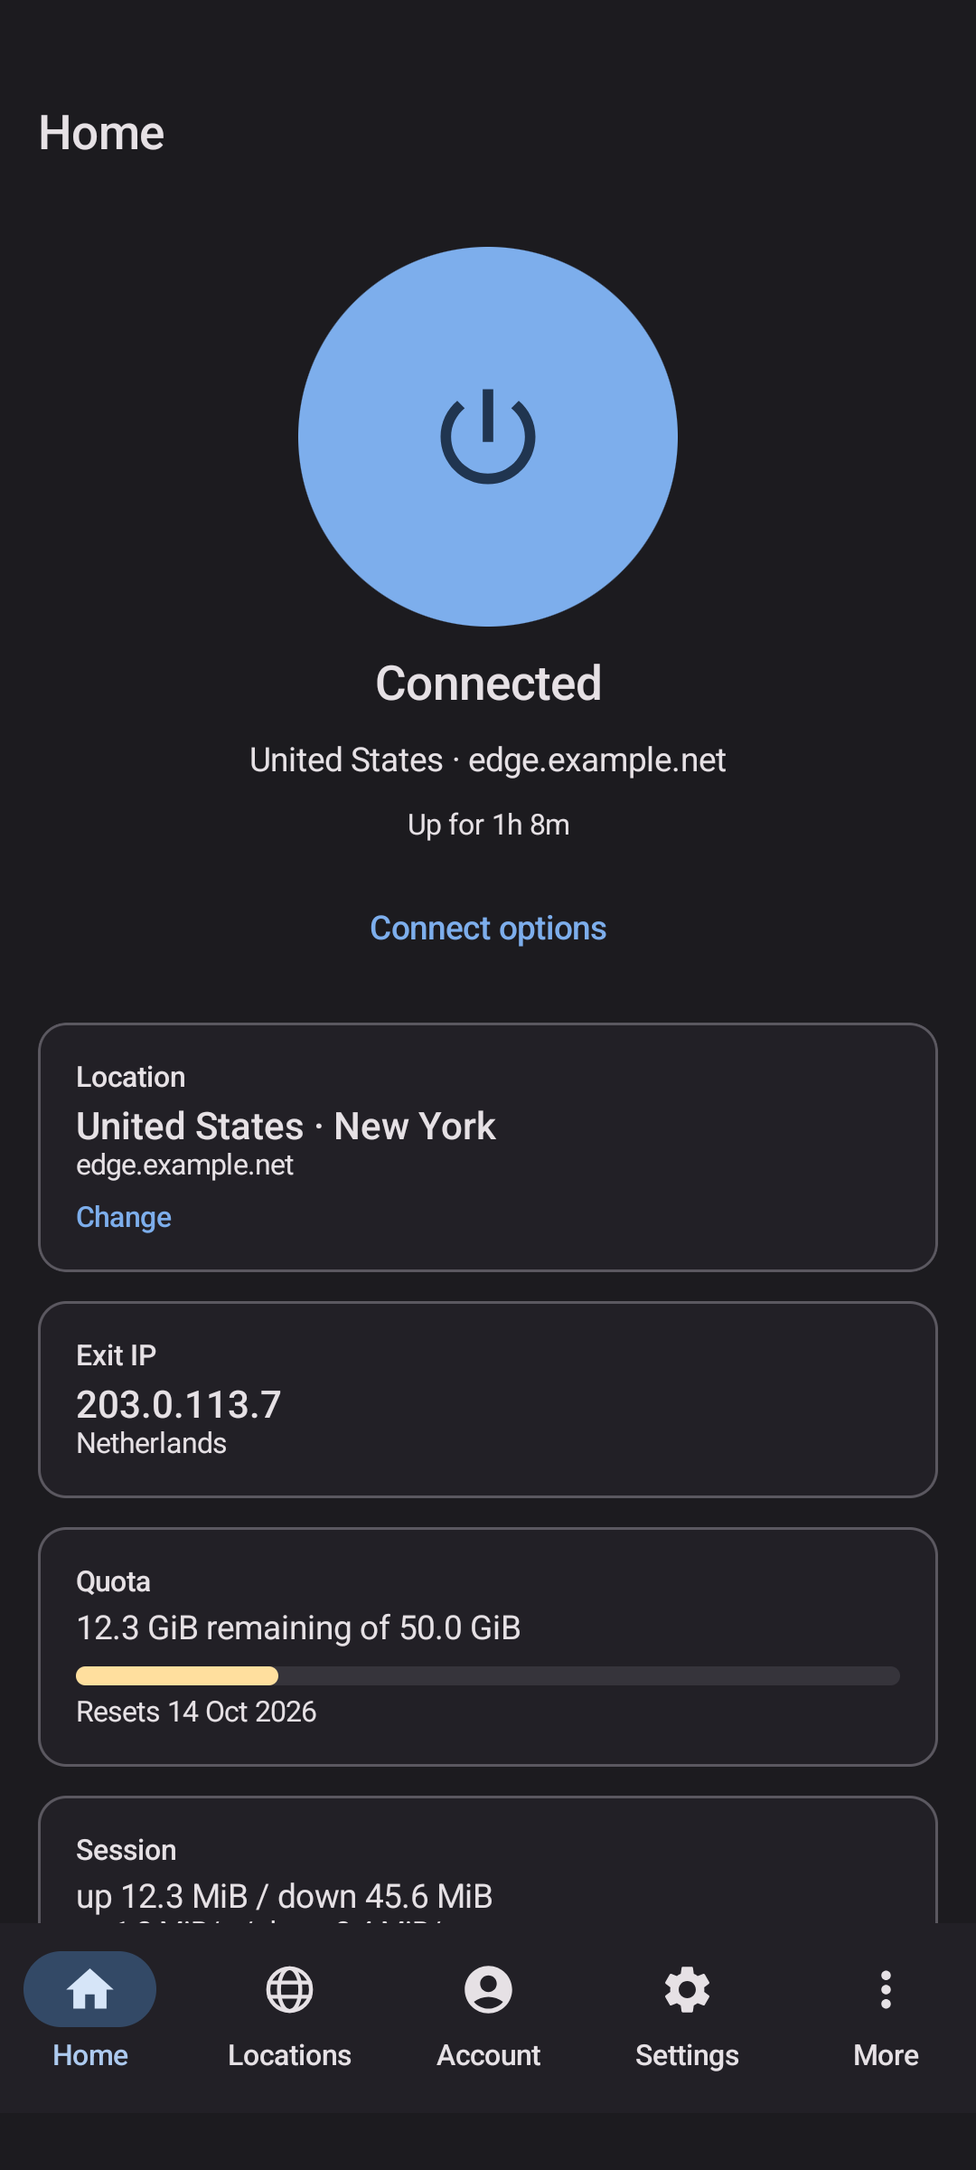
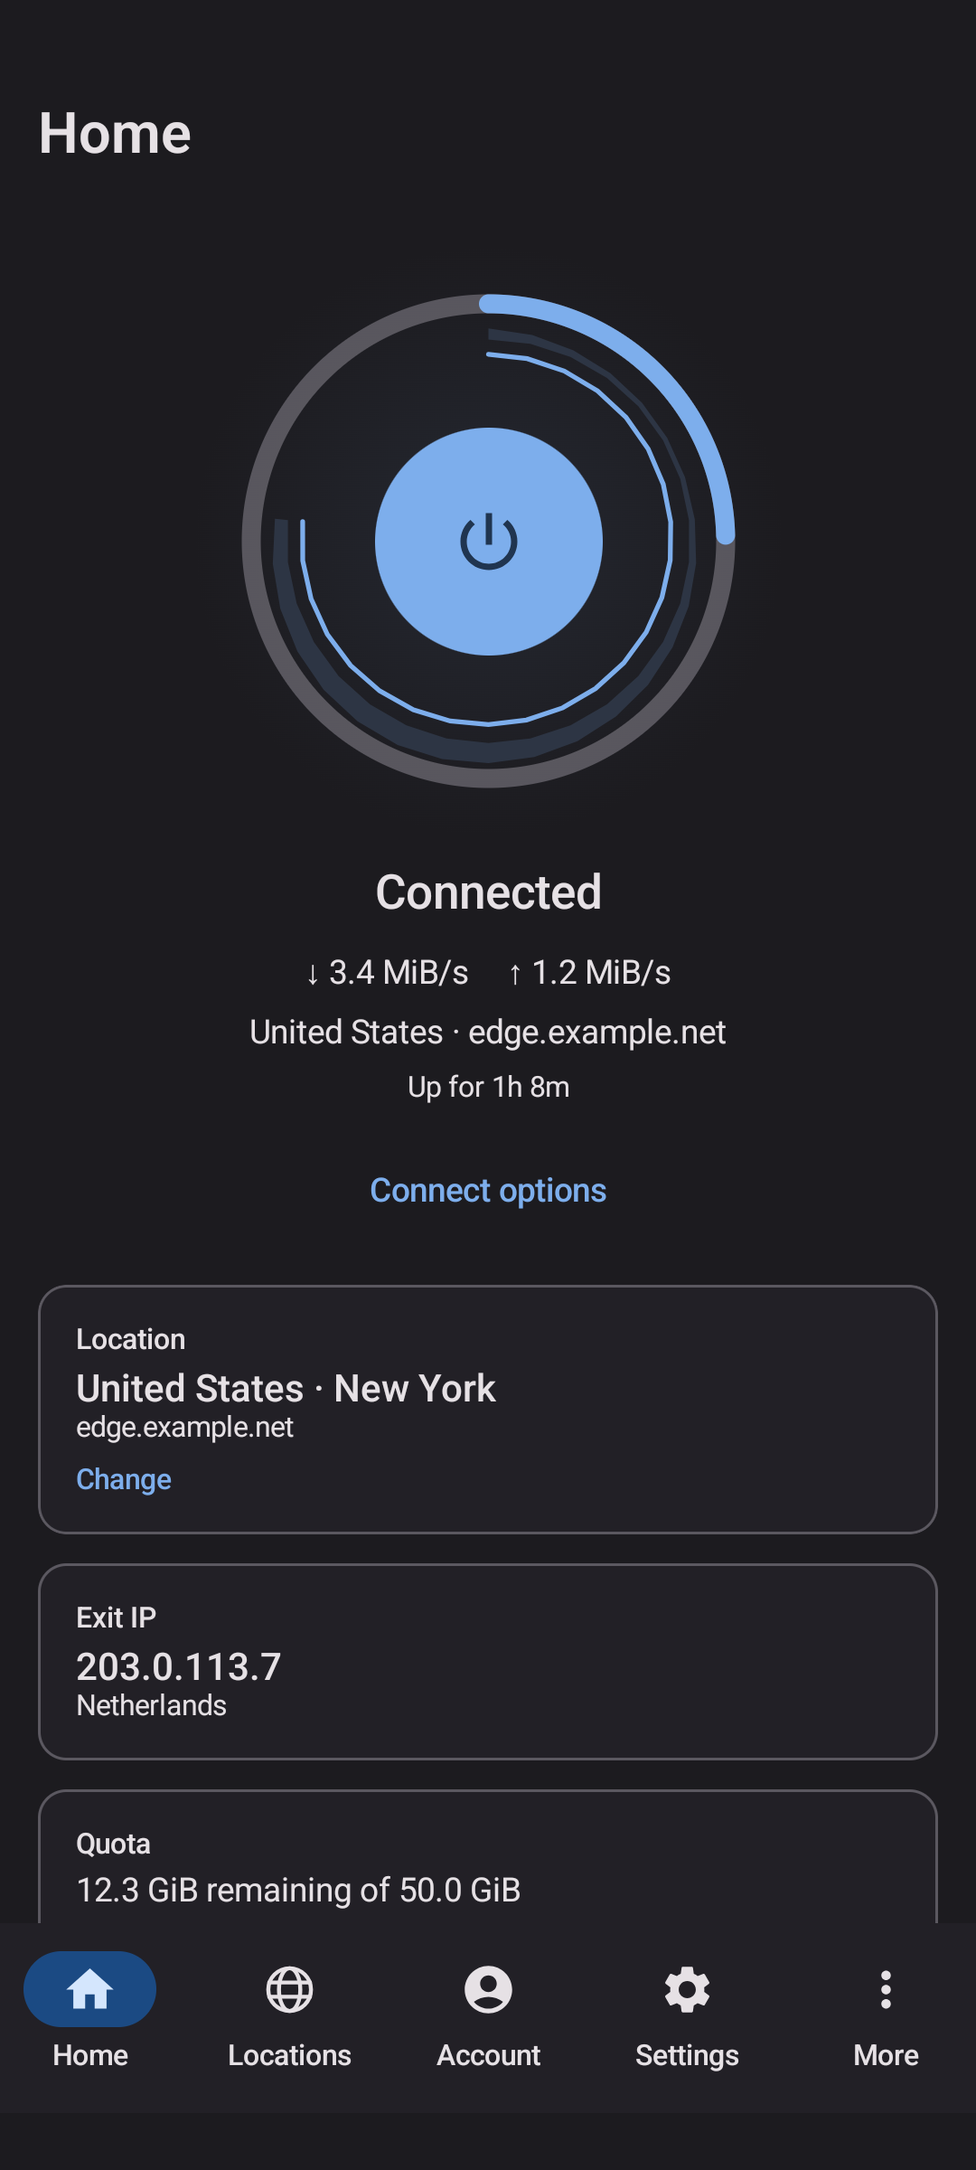
docs: document the v0.11.0 design language
Record the gauge and live rates, the Diagnostics charts, the
switch-location dialog, the recovery actions, the Account clarity work,
the launch wordmark and the phone-wide restyle in the user guide, the
testing guide, the design language and the changelog. Regenerate the
three README captures from the Dark screenshot test run.

Design self-check (Light, Dark, OLED and a Teal run):
- Bans 1-12: no decorative gradient (the gauge glow is the one allowed
  subtle glow), no glass, no emoji in chrome, no stock art, no marketing
  hero, no purple gradient, no drop shadows, one accent, semantic roles
  only, logical start/end layout, no decorative numbering, one type
  family. Flags are real assets; monospace is functional machine data.
- Accessibility: contrast checked in all themes, 48 dp targets, state
  carried by word and icon as well as colour, gauge and charts labelled
  and summarised in text, reduced motion honoured, focus order
  unchanged.

The Settings capture still shows 0.10.1; the version bump is the release
commit.

diff --git a/docs/android.md b/docs/android.md
@@ -157,16 +157,30 @@ system's light/dark preference, and OLED is opt-in.
 
 ## Dashboard
 
-The power control is the primary action: tap to connect or disconnect. The
-state word under it is the service's own state:
+The hero is one 248 dp gauge and the power control is its centre: tap it to
+connect or disconnect. The state word under it is the service's own state:
 
 - *Off*, *Connected*, *Proxy only*, *Connecting*, *Reconnecting*, *Waiting for
   network*, *Sign in required*, *Connection error*, *Service unavailable*,
   *VPN permission needed*, and *Starting…* while the app waits for the bound
   service. A proxy-only session also carries a **No VPN tunnel** badge.
 
+While a session is up the outer 8 dp arc shows the remaining quota (hidden
+when the quota is unknown or the phase is not active), and two bands inside
+the ring trace the last 60 seconds of throughput — download as a filled band,
+upload as a stroked line. The line under the state word repeats the current
+rates as `↓ 3.4 MiB/s ↑ 1.2 MiB/s` in tabular figures. A subtle primary glow
+breathes behind the gauge only while the app is in the foreground. Connecting
+and reconnecting rotate a state sweep around the ring; the gauge settles it
+into the quota position when the session connects. Under system **Remove
+animations** the sweep is static, the glow steady and every change snaps; the
+haptics and the numbers stay. The gauge is one TalkBack control labelled with
+the state, and every fact it draws is also text, so nothing depends on colour
+or the drawing alone.
+
 While connected the hero shows the real location and server and the session
-uptime. Four cards appear only when their data exists:
+uptime. Four cards appear only when their data exists (the live rates stay on
+the hero, not in Session):
 
 - **Location** — the country flag, country and city when the engine's server
   is known, with the `host:port` beneath it;
@@ -182,9 +196,17 @@ VPN*: the engine's desktop `autoconnect` setting is not used on Android.
 A connection command is one-way: the UI follows the service and never invents
 a connection. The app allows one session at a time, so while a session is
 active the options sheet says **Disconnect first to change location** and
-Connect is disabled. A failed connect is reported with the engine's own words
-and a Retry or Dismiss action; a transient status-refresh failure never
-replaces a live tunnel with an error.
+Connect is disabled; the Locations screen's switch dialog is the one place
+that performs that disconnect for you. A failed connect is reported with the
+engine's own words. A phase that needs a decision shows a **Next step** card
+under the hero with
+at most one filled primary action and one text action: **Retry** and
+**Diagnostics** for a connection error or an unavailable service, **Sign in**
+and **Diagnostics** when signed out, **Allow VPN** and **Open VPN settings**
+when consent is missing, and **Diagnostics** while waiting for a network. When
+there is a notice, the same card carries the engine's text and the **Dismiss**
+action. A transient status-refresh failure never replaces a live tunnel with
+an error.
 
 ### Connect options
 
@@ -257,9 +279,18 @@ scope. The current-selection summary keeps the flag and shows
 longer in the loaded list. There is no connected-location hint; the summary
 is the only current-selection display.
 
-Selecting a row saves it for the **next** connection — the current session
-keeps its server and exit IP — so the screen says to disconnect on Home and
-connect again.
+Selecting a row while no session is active saves it for the **next**
+connection. Tapping a row while a session is active (including proxy-only,
+connecting, reconnecting and waiting for a network) opens **Switch location?**
+with the target and the sentence that the current session ends. Nothing is
+persisted and nothing disconnects until **Switch**; **Cancel** leaves the
+session untouched. Confirming runs disconnect → wait for the engine to leave
+the connected family (bounded at 15 s) → select the row → connect, while the
+dialog shows **Ending the current session…** and **Connecting to …**. A
+failure keeps the target and offers **Retry** and **Close**; if the session
+does not stop in time the dialog says so and never connects. With Android
+lockdown on, the dialog warns that the phone has no tunnel until the new
+session is up.
 
 ## Home-screen widgets
 
@@ -560,10 +591,13 @@ proxies start and stop with the session.
 ## Account
 
 **Account** shows up to five accounts and the live Guardian entitlement for
-the active one. Each row carries the label/email, method, active marker,
-quota percent and a re-authentication warning. Run actions from the row
-overflow menu: **Use**, **Re-authenticate** (browser), **Rename** and
-**Remove**. **Add** offers browser sign-in (the default) or the password
+the active one. The active row carries an **Active** text chip and a primary
+outline; its quota reads **N% left** or **Quota unknown** in tabular figures,
+and a sign-in that needs re-authorization is a clickable **Re-authorize**
+warning chip rather than an easy-to-miss note. Every row shows the label/email,
+method and quota. Run actions from the row overflow menu: **Use**,
+**Re-authenticate** (browser), **Rename** and **Remove**. **Add** offers
+browser sign-in (the default) or the password
 pane. When the browser opens, the waiting card offers **Open again**, an
 expandable **Paste redirect URL instead** section with a **Redirect URL**
 field and **Continue**, **Use password**, and **Cancel**; completing the flow
@@ -582,17 +616,20 @@ sign-in removed. Add your Firefox account again.”** Password accounts and
 settings are untouched.
 
 The **Account rotation** card controls the same `account_rotation` and
-`rotation_threshold` settings mirrored in Settings → Connection. Rotation is
-off by default, runs before the next connect and never mid-session; the
-threshold is 1–50% (default 10) and is disabled while rotation is off.
+`rotation_threshold` settings mirrored in Settings → Connection. It names the
+active account and states what the threshold will do before the next connect.
+Rotation is off by default, runs before the next connect and never
+mid-session; the threshold is 1–50% (default 10) and is disabled while
+rotation is off.
 Threshold edits are debounced and saved through `accounts_set_rotation`.
 
 The entitlement card shows email, UID, subscription, quota remaining and
 limit, bandwidth (limited or unlimited) and token expiry. **Refresh** re-reads
 it with a 35-second timeout; on failure the last known fields stay visible
-with a notice. **Sign out** asks for confirmation, clears every account and
-the token files, asks Firefox Accounts to revoke the stored refresh tokens
-(best effort, with a short timeout), disconnects the tunnel and leaves you on
+with a notice. **Sign out all** is a tonal action that states the consequences
+first: it asks for confirmation, clears every account and the token files,
+asks Firefox Accounts to revoke the stored refresh tokens (best effort, with a
+short timeout), disconnects the tunnel and leaves you on
 Account in the signed-out state, where the browser/password sign-in pane lets
 you sign back in. An offline or failed revocation never blocks the local
 sign-out, and the app also clears the in-app WebView's Firefox Accounts
@@ -603,9 +640,10 @@ at any time. Removing one account leaves the others signed in.
 
 **More → Logs** shows the engine's log: a snapshot when the screen opens plus
 live lines while it is visible, capped at the newest **2000 entries**. Filter
-by **All / Debug / Info / Warn / Error**, search with the field, toggle
-**Follow**, **Clear** the engine ring, and **Share** the current buffer. Each
-line can be copied.
+with the tonal **All / Debug / Info / Warn / Error** controls, search with the
+field, toggle **Follow**, **Clear** the engine ring, and **Share** the current
+buffer. Rows use a 12 sp monospace face and tabular timestamps; each line can
+be copied.
 
 **Share** writes `kumiho-logs-<timestamp>.log` to the app's
 `cacheDir/exports/` and opens the Android share sheet with a `FileProvider`
@@ -629,6 +667,11 @@ once per visit (no polling), caching the result until you press **Re-run**:
 - status chips — **OK / Warn / Fail / Skip** — with detail and a **Fix:** line
   from the doctor where one exists, plus **Copy all** for the plain-text
   report;
+- two live charts over the same in-memory data as the dashboard: throughput
+  (download filled, upload stroked, grid baseline) and the engine's cached
+  latency as horizontal bars, longest first. The latency chart never starts a
+  ping, and a cache that cannot be read is replaced by an honest line rather
+  than an empty axis;
 - shortcuts to Android's VPN, notification and battery settings;
 - **Reset local state…**, which clears the cached server list, the log ring
   and the failure counters. It **never** signs you out and never touches your
@@ -637,6 +680,25 @@ once per visit (no polling), caching the result until you press **Re-run**:
 Diagnostics deliberately filters desktop-only doctor checks the phone cannot
 act on. It does not change Private DNS, the VPN flags or any system setting;
 the shortcuts are the only writes, and they open the system page for you.
+
+## Design
+
+The phone app is the reference implementation of the Kumiho Design Language;
+[design.md](design.md) records the palette roles (including the four data
+roles), the gauge anatomy, the chart encoding, the motion values, the
+wordmark rules, the component patterns and the accessibility floor. Light,
+Dark and OLED are first-class; every screen is reviewed in all three, and
+meaning is never carried by colour alone. Charts and the gauge glow sit on the
+page background because the data roles are pre-composited for it; they are
+never reused on a raised card.
+
+The only brand presence inside the app is the **Kumiho** wordmark on the
+launch screen. It is a vector outline tinted from `on-surface`, shown through
+the Android 12+ system splash branding image. Android 8–11 keep the icon-only
+splash; there is no in-app launch frame, and no fox artwork appears inside the
+app. The launcher icon and TV art are unchanged. Type is one family (the
+system face, Roboto on Android); monospace is reserved for machine data — log
+rows and server addresses — never for prose, headings or buttons.
 
 ## Privacy and security
 
@@ -775,10 +837,11 @@ report.
 
 ### A location change did not apply
 
-The app allows one session at a time. A location selected while connected is
-saved for the next connection and the current session keeps its server and
-exit IP; disconnect on Home, then connect again. The same is true for split
-tunneling and route exclusions.
+A switch that fails keeps its target and offers **Retry** and **Close**. The
+dashboard always shows the engine's real state, so check it after closing: a
+failure at the disconnect step can leave the old session up, while a later
+failure leaves the app disconnected until you reconnect from Home. Changes to
+split tunneling and route exclusions still apply on the next connect.
 
 ### The sign-in fails with a captcha
 

diff --git a/docs/android-testing.md b/docs/android-testing.md
@@ -5,8 +5,8 @@ Gradle commands, APK verification, signing, release automation and the
 physical acceptance checklist. The user guide is [android.md](android.md).
 
 > **Status.** The app builds and both test suites are green on the current
-> tree: **491 JVM tests / 157 phone + 21 TV connected testcases / lint 0
-> errors + 26 warnings**.
+> tree: **565 JVM tests / 171 phone + 21 TV connected testcases / lint 0
+> errors + 32 warnings**.
 > Physical acceptance is a **partial pass with user-accepted exceptions** on a
 > Galaxy S25 FE for v0.5.2; v0.6.0 physical acceptance is pending and the
 > sign-off is recorded below. The release automation is implemented:
@@ -128,11 +128,13 @@ cache is warm. The unit/lint/assemble gate directly:
 
 Current expected result on the current tree:
 
-- **491 JVM tests, 0 failures, 0 errors, 0 skipped**;
-- **lint 0 errors, 26 warnings** — dependency-update notices, the existing
-  `OldTargetApi`, `UnusedAttribute`, `ObsoleteSdkInt`, unused resources, four
-  `ModifierParameter` and four `UseKtx` notices, plus four generated-flag
-  `IconDuplicates` and one `IconMissingDensityFolder` from the bundled assets;
+- **565 JVM tests, 0 failures, 0 errors, 0 skipped**;
+- **lint 0 errors, 32 warnings** — dependency- and plugin-update notices, the
+  existing `OldTargetApi`, `UnusedAttribute` and `ObsoleteSdkInt`, six unused
+  resources, four `ModifierParameter` and four `UseKtx` notices, plus the
+  bundled-asset and Compose-drawing advisories (`IconDuplicates`,
+  `IconMissingDensityFolder`, `IconLauncherShape`, `VectorPath`, `Overdraw`,
+  `ComposableNaming`, `DisableBaselineAlignment`, `SetJavaScriptEnabled`);
 - `app/build/outputs/apk/debug/app-debug.apk`.
 
 The debug build is one APK containing the AAR's arm libraries and installs as
@@ -176,13 +178,27 @@ Then run:
     cd android
     ./gradlew --offline -PkumihoEmulator=true :app:connectedDebugAndroidTest
 
-Current expected result: **157 phone tests**, plus the 21 TV-only testcases
+Current expected result: **171 phone tests**, plus the 21 TV-only testcases
 which skip by assumption on the phone AVD; the Gradle task is green. The suite
-includes the AAR probe, setup, dashboard, the card Locations list and its
-connect targets, flags, search and Ping-all/speed-order paths, settings, split
-tunneling, account, logs, diagnostics, notification/tile reducers and the
-screenshot capture tests. A connected run uninstalls the app and its external
-files when it finishes.
+includes the AAR probe, setup, dashboard (including the gauge, rate line and
+recovery card), the card Locations list and its connect targets, flags, search,
+the switch-while-connected dialog and its lockdown variant, Ping-all/speed-
+order paths, settings, split tunneling, account clarity, logs, diagnostics
+(including both charts), notification/tile reducers and the screenshot capture
+tests. A connected run uninstalls the app and its external files when it
+finishes.
+
+The screenshot tests write to the app's external files directory and are not
+part of the committed tree:
+
+- `dashboard-screenshots/` — connected, off, permission, error and waiting;
+- `locations-screenshots/` — tree, search, switch dialog and switch-lockdown;
+- `settings-screenshots/` — the Kumiho app group.
+
+Each capture is written in Light, Dark and OLED. The three committed README
+images (`screenshots/android-phone/{dashboard,locations,settings}.png`) are the
+Dark captures reviewed at release time; pull the directory and review all
+themes before replacing them.
 
 ### API 26 and API 36 coverage
 

diff --git a/CHANGELOG.md b/CHANGELOG.md
@@ -8,6 +8,57 @@ and this project adheres to
 
 ## [Unreleased]
 
+### Added
+
+- **The phone dashboard has a real gauge hero.** One 248 dp ring replaces the
+  flat power circle: the quota arc, a 60-second throughput trace, a connecting
+  sweep and a restrained glow, with the live `↓ … ↑ …` rates in tabular
+  figures. The arc settles in 900 ms, a successful connect adds one haptic tick,
+  and every animated value snaps under system "Remove animations".
+- **Diagnostics draws the live session.** A throughput chart over the same
+  in-memory 60-second buffer and a cached-latency bar chart; neither starts a
+  ping, and each degrades to an honest sentence instead of an empty axis.
+- **The launch screen carries the Kumiho wordmark on Android 12+** through the
+  system splash branding image. Android 8–11 keep the icon-only splash; no fox
+  artwork enters the app.
+- **Four data roles** (`data-line`, `data-fill`, `data-grid`, `glow`) are
+  generated in Go and consumed by Android and the GUI's CSS; they are
+  pre-composited on `background`.
+- **Locations can switch the server while connected.** Tapping a row opens a
+  confirmation naming the target; confirming disconnects, waits for the engine
+  to settle, selects the row and reconnects, with progress, a 15-second bound,
+  Retry/Close and a lockdown warning. Cancel never touches the session.
+- **Dashboard failures have a forward action.** A Next step card offers Retry
+  and Diagnostics for errors and an unavailable service, Sign in and
+  Diagnostics when signed out, Allow VPN and Open VPN settings without consent,
+  and Diagnostics while waiting for a network; the engine's text and Dismiss
+  stay on the same card.
+
+### Changed
+
+- **Every phone screen now follows the Kumiho Design Language.** House cards,
+  section headers, tonal chips, selected-card treatment, tabular numbers, a
+  four-dot setup indicator with "Step N of 4", restyled Logs filters and
+  monospace rows, and one shell across Dashboard, Locations, Account, Settings,
+  Setup, Logs and Diagnostics. TV and the Windows GUI are unchanged.
+- **Live rates moved from the Session card to the gauge.** The Session card
+  keeps uptime and totals; the hero owns the current numbers.
+
+### Fixed
+
+- **The Account screen is readable at a glance.** The active account carries an
+  Active chip and outline, a clickable Re-authorize chip replaces the easy-to-
+  miss warning, quota reads "N% left" or "Quota unknown" in tabular figures,
+  the rotation card names the active account and its threshold, and Sign out
+  all is a tonal action that states its consequences.
+
+### Accessibility
+
+- The gauge is one labelled control whose every fact is also text; charts
+  carry a written summary; selected and failed states use words and icons, not
+  colour alone; all new controls meet the 48 dp target; reduced motion is
+  honoured across the gauge, charts and transitions.
+
 ## [0.10.1] - 2026-11-05
 
 ### Fixed

diff --git a/docs/design.md b/docs/design.md
@@ -172,9 +172,10 @@ radius, 16 dp content padding. Cards separate by hairline, not shadow. The
 container ladder supplies raised steps only where they mean hierarchy; the page
 behind charts is always `background`.
 
-**Rows.** 56 dp list rows, 48 dp minimum touch target, leading icon, title and
-optional trailing value. A row never carries a second line of explanation that
-a section header could carry better.
+**Rows.** 56 dp single-line list rows, 48 dp minimum touch target, leading
+icon, title and optional trailing value. A row that carries a second line of
+state (as the Account rows do) is 64 dp. A row never carries a second line of
+explanation that a section header could carry better.
 
 **Chips.** Pills. A selectable chip is Material's filter chip at the 6 dp
 radius; a status chip is a 16% tint with a matching 50% border and always
@@ -182,8 +183,15 @@ carries an icon plus text, so its meaning survives without colour (`Profit`,
 `Loss`, `Warning`, `Neutral`).
 
 **Segmented control.** House component for two to four exclusive choices; the
-selected segment takes the primary tint and the group keeps the 8 dp radius.
-It is never used for navigation.
+selected segment takes the `primaryContainer` fill, `onPrimaryContainer`
+content and a 1 dp `primary` outline, and the group keeps Material's pill
+ends. It is never used for navigation.
+
+**Selected cards.** A selectable card (a location row, a split-tunnelling mode
+or an account) moves 18–22% from `surfaceContainer` toward
+`primaryContainer` and gains a 1 dp `primary` outline plus a check where the
+layout has room. The tint is derived in Compose from theme roles; it is not a
+separate token, and selection is still named in text for TalkBack.
 
 **State views.** Empty, error and loading states are explicit composables:
 glyph, one-sentence cause, one primary action. An error keeps the engine's own
@@ -198,6 +206,13 @@ version; it is described here so adaptations keep the same shape.
 
 **Density.** A 4 dp spacing scale, 16 dp screen padding, reading content capped
 at 720 dp, and the radius scale 6 / 8 / 12 / 16 / full.
+
+## Type
+
+One family: the platform system face (Roboto on Android, Segoe UI Variable on
+Windows 11). Weights and sizes carry hierarchy. Monospace is a functional
+face, not a second brand face: it is used only for machine data — log rows,
+timestamps and server addresses — and never for prose, headings or buttons.
 
 ## Accessibility
 
